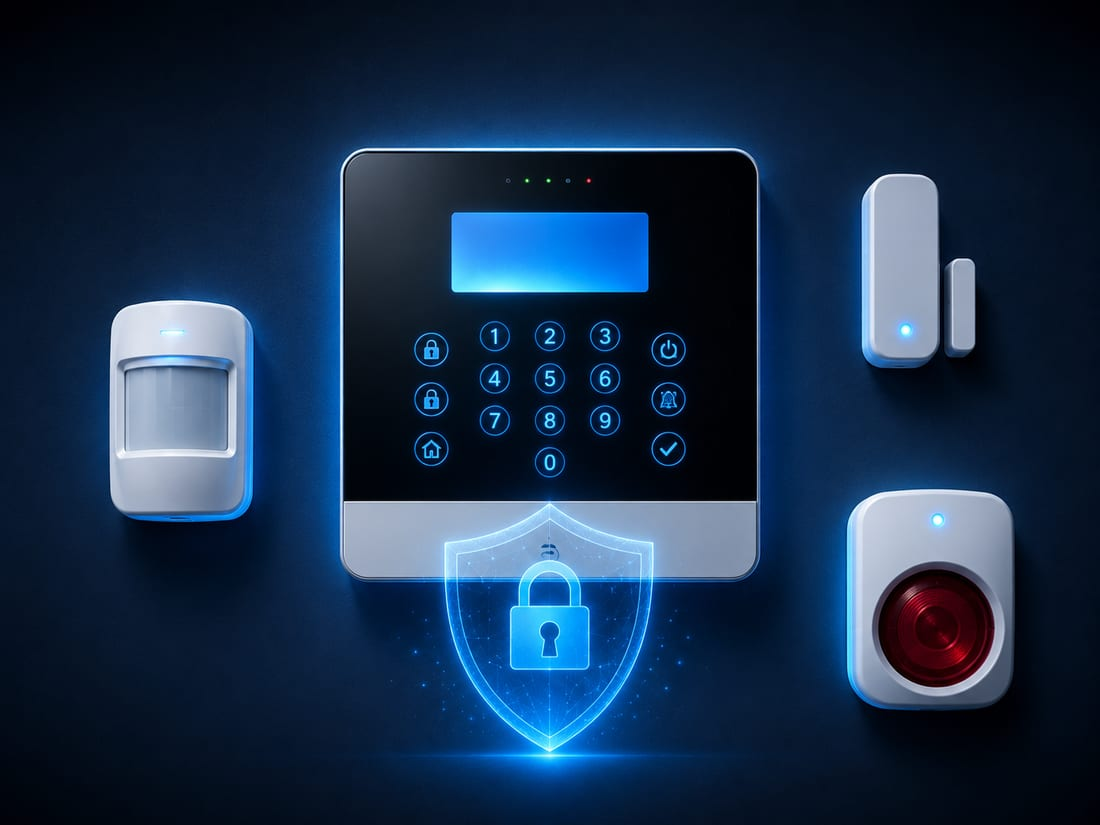
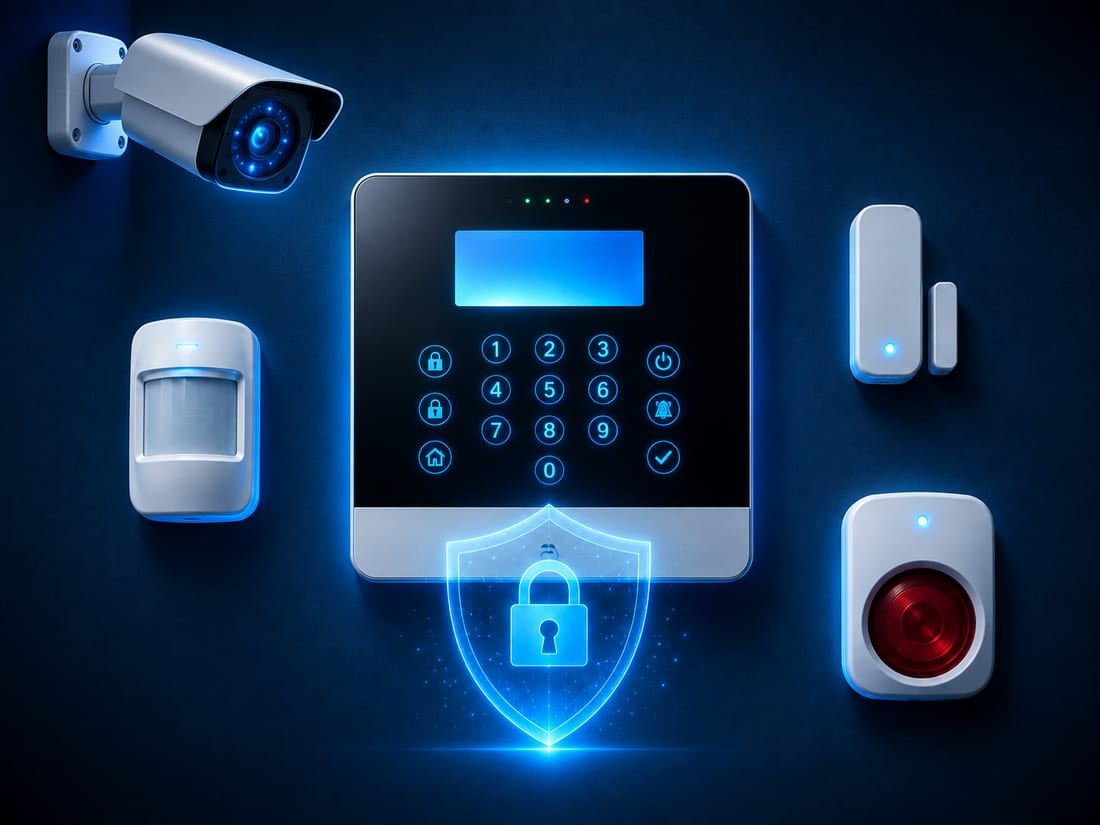
Final Version 1.0.0

diff --git a/public/style.css b/public/style.css
@@ -1479,10 +1479,15 @@ h2 {
   margin-top: 2px;
 }
 
-/* Centred footer columns (Quick Links / Services / Contact Info) */
+/* Footer columns: heading centred, list content left-aligned */
+.footer-col-center .footer-links,
+.footer-col-center .footer-contact {
+  text-align: left;
+}
+
 .footer-col-center .footer-contact li {
-  justify-content: center;
-  text-align: center;
+  justify-content: flex-start;
+  text-align: left;
 }
 
 .footer-bottom {
